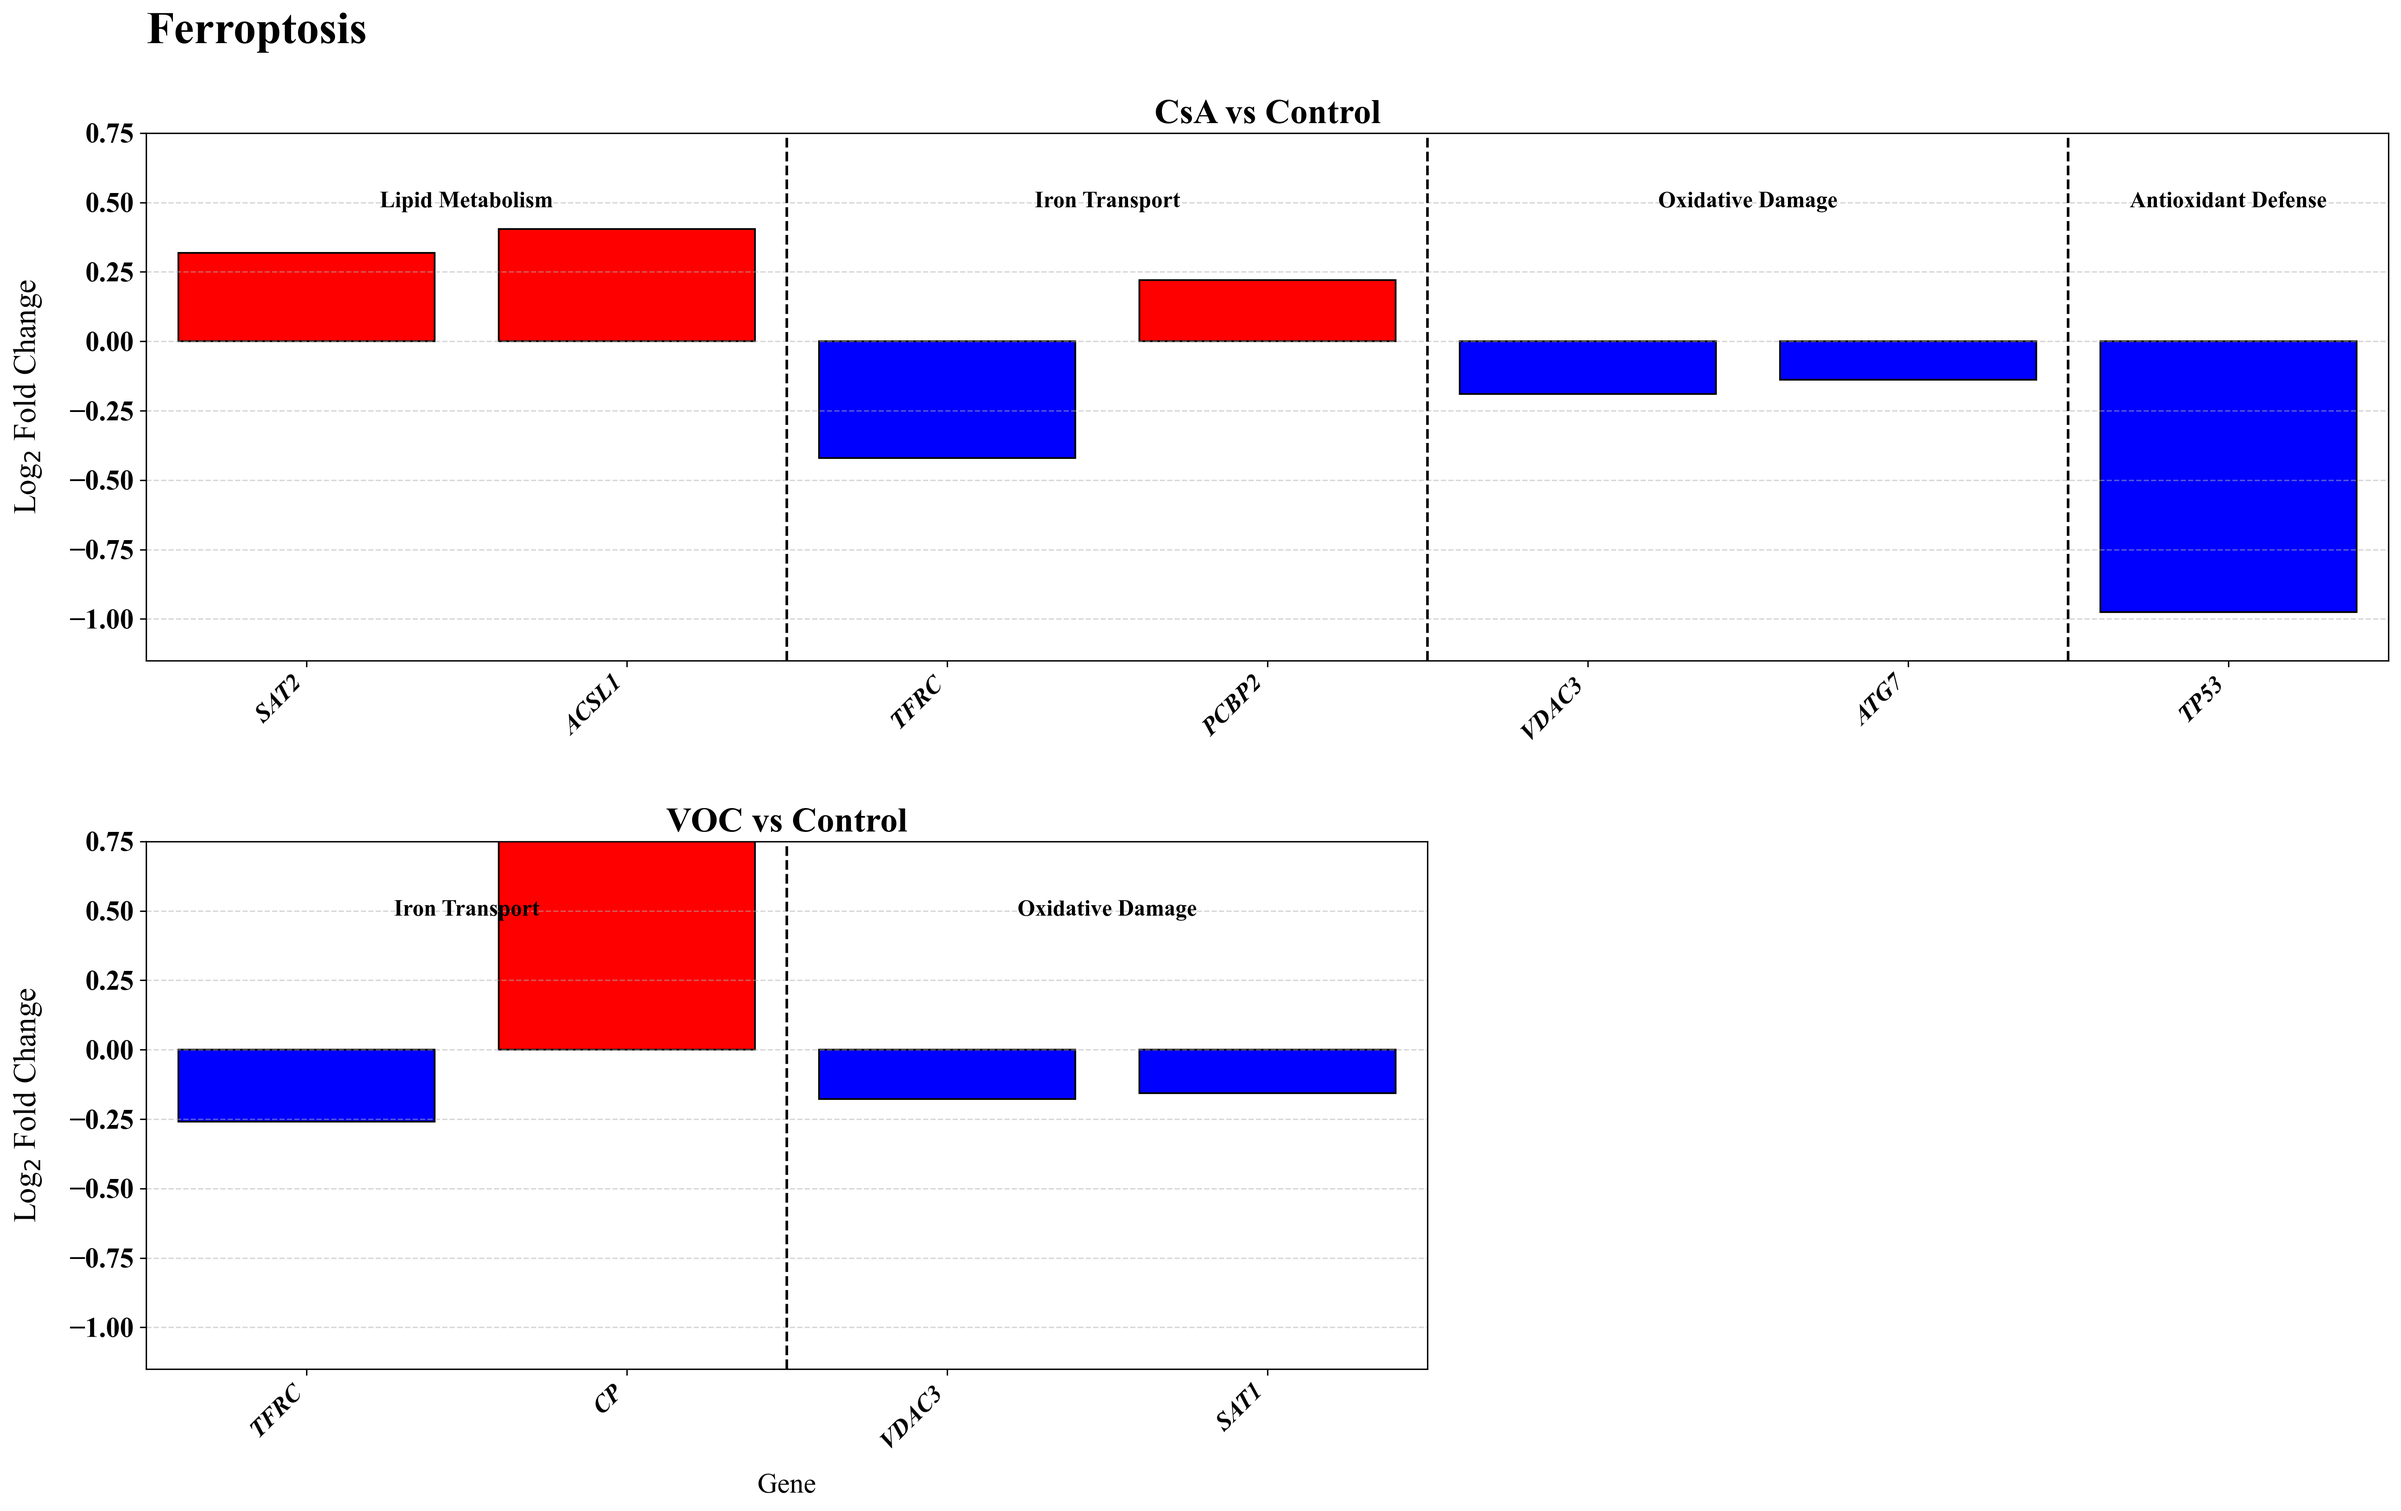
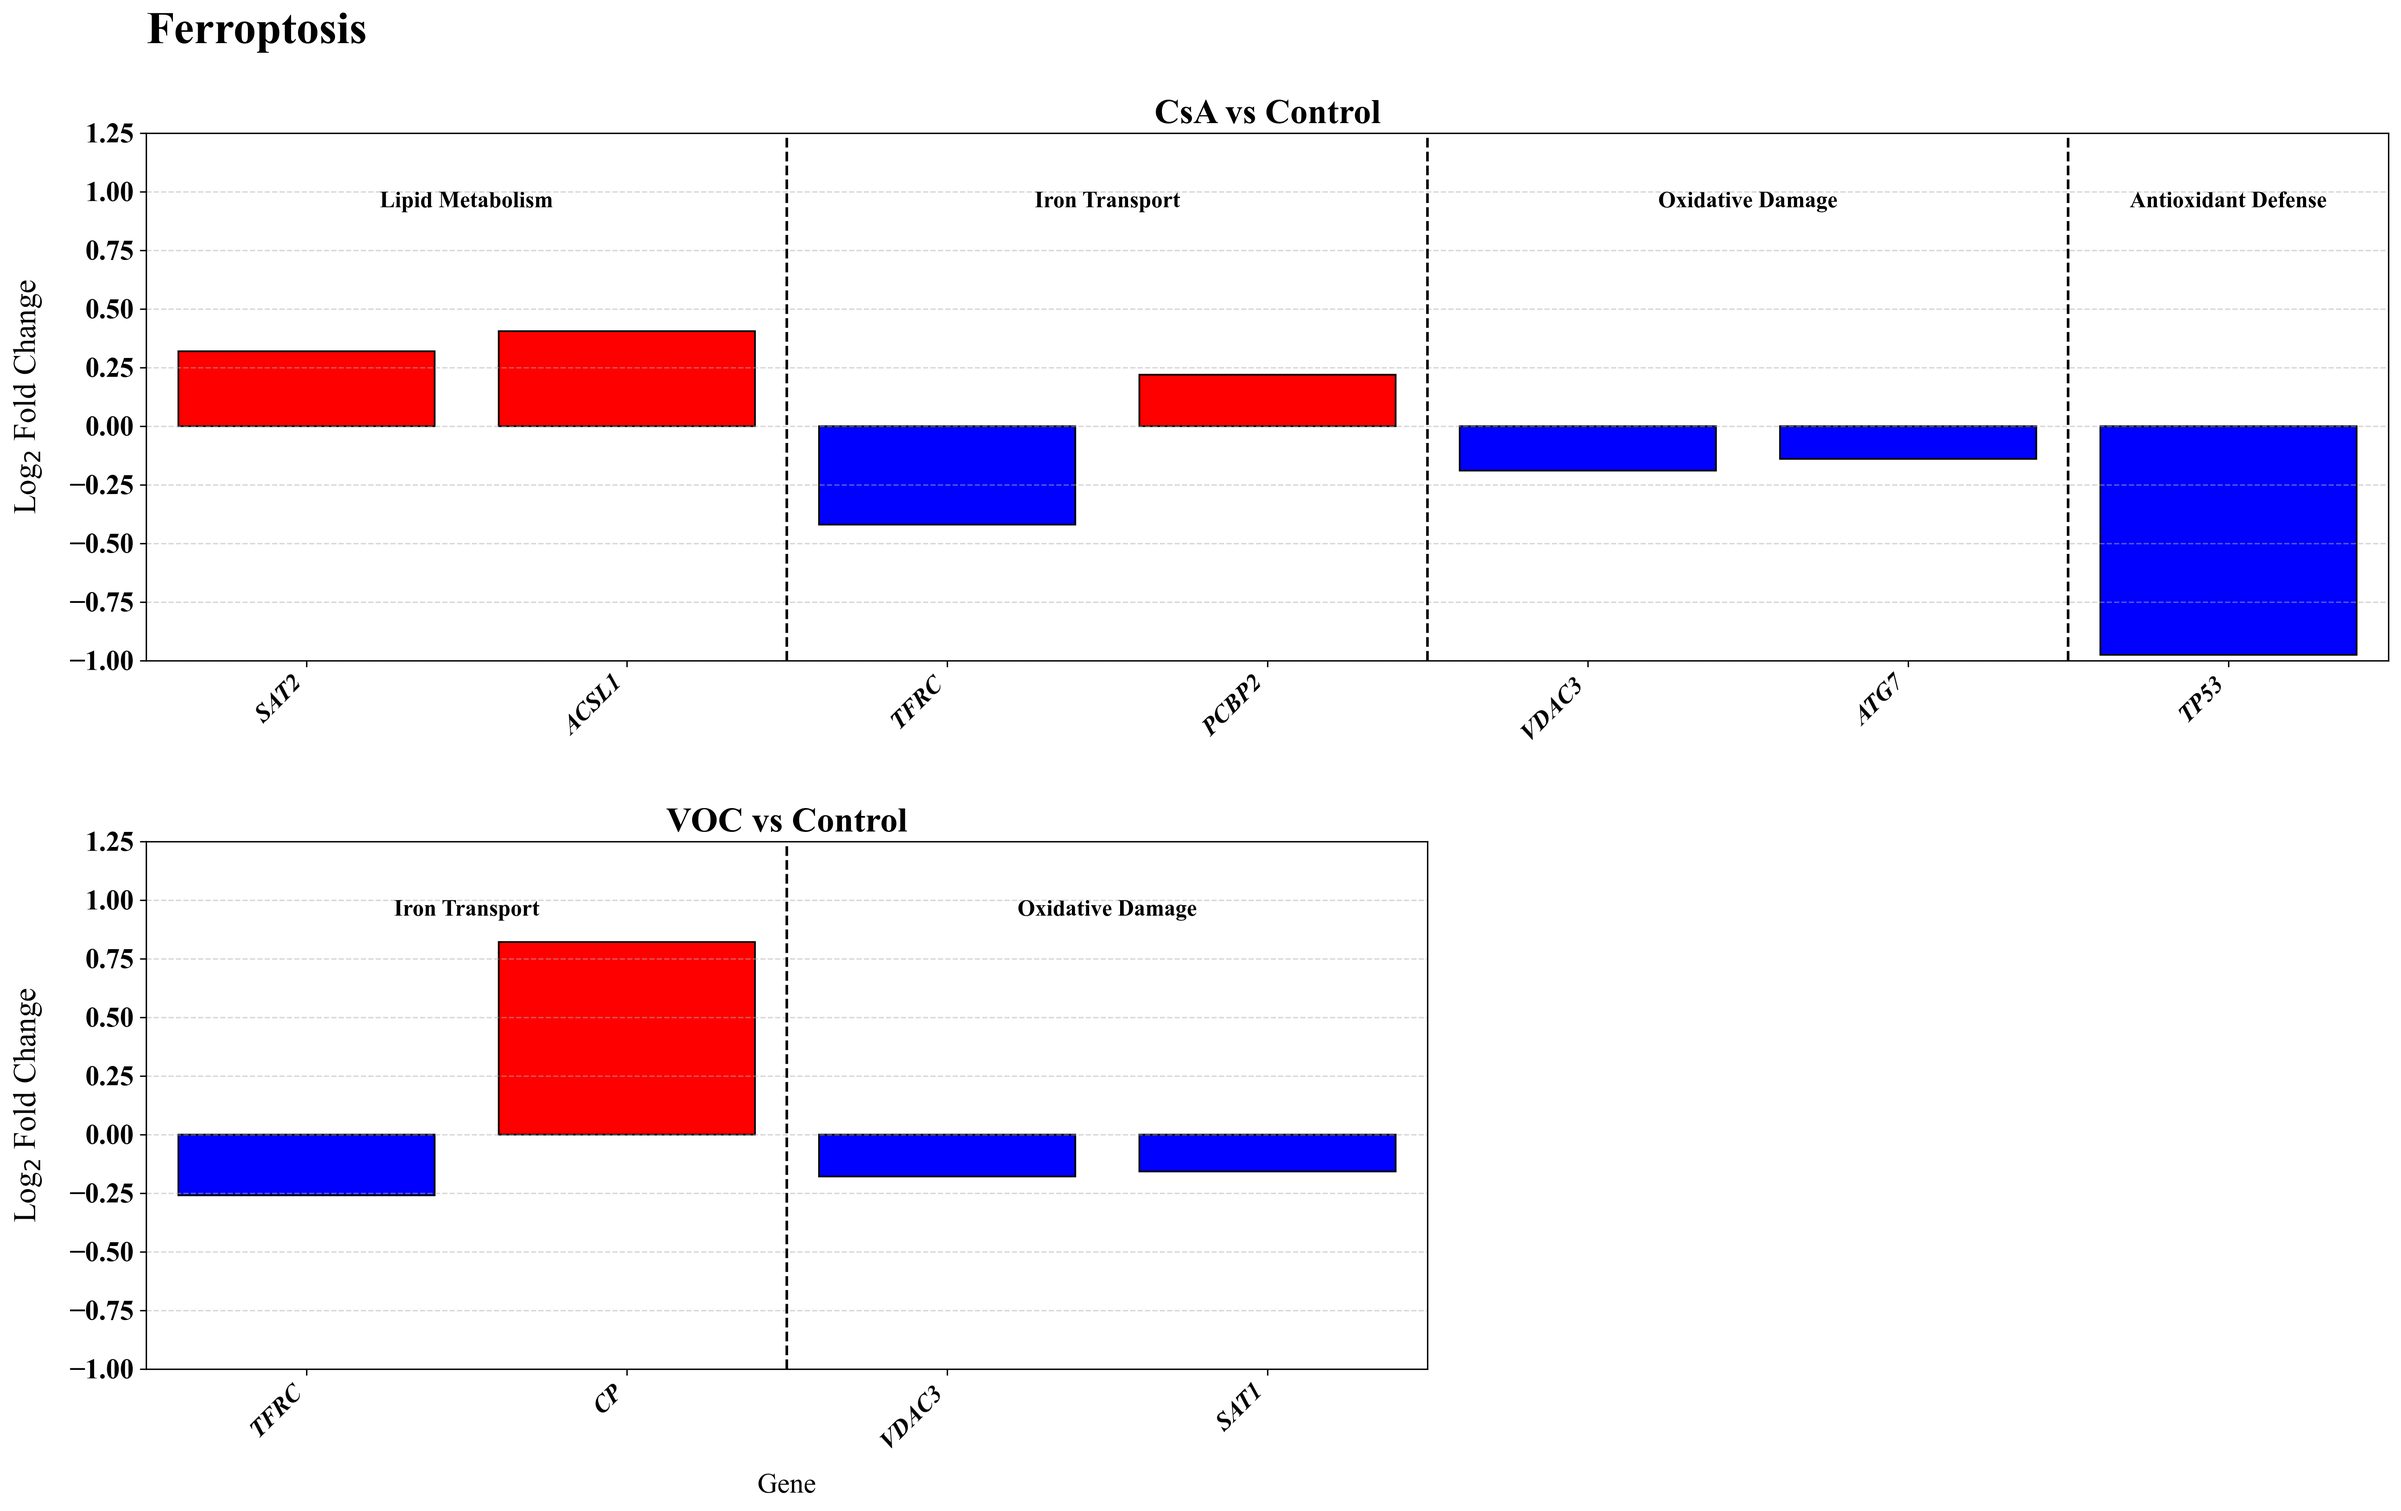
Update cell cycle plot: adjust dimensions to 16x8 inches, move role labels slightly higher, and set y-axis limits to -1.0 to 0.75
Changes made to Genes/cell_cycle.py:
- Changed figure dimensions from 28x10 to 16x8 inches for better fit
- Adjusted role label vertical position (multiplier from 0.85 to 0.88) for better spacing
- Updated y-axis limits to range from -1.0 to 0.75 for better visualization of the data
- Maintained consistent styling with other plots (Times New Roman font, bold labels, etc.)

diff --git a/Genes/ferroptosis.py b/Genes/ferroptosis.py
@@ -27,7 +27,7 @@ csa_roles = {
 }
 
 role_order = [
-    'Lipid Metabolism', 'Iron Transport', 'Oxidative Damage', 'Antioxidant Defense'
+    'Lipid Metabolism', 'Iron Transport', 'Oxidative Damage', 'Antioxidant\nDefense'
 ]
 
 # VOC panel data (sorted by Log2FC within each role)
@@ -75,10 +75,11 @@ csa_boundaries, csa_role_labels, csa_role_positions = get_boundaries_and_positio
 
 voc_n = len(voc_genes)
 csa_n = len(csa_genes)
-fig_width = 33
+fig_width = 12  # Increased width to accommodate gene names and labels
+fig_height = 8  # Increased height for better panel spacing
 width_ratios = [csa_n, voc_n]
 total = sum(width_ratios)
-fig = plt.figure(figsize=(fig_width, 12))
+fig = plt.figure(figsize=(fig_width, fig_height))
 gs = gridspec.GridSpec(2, 1, height_ratios=[1, 1])
 
 # CsA panel (top)
@@ -90,16 +91,17 @@ ax_csa.set_title('CsA vs Control', fontsize=20, fontweight='bold')
 ax_csa.set_xticks(csa_x)
 ax_csa.set_xticklabels(csa_genes, rotation=45, ha='right', fontsize=14, fontweight='bold', style='italic')
 # ax_csa.set_xlabel('Gene', fontsize=16, fontweight='bold', labelpad=12)
-ax_csa.set_ylim(-1.15, 0.75)
+ax_csa.set_ylim(-0.5, 1.25)
 ax_csa.set_xlim(-0.5, len(csa_genes) - 0.5)
 ax_csa.yaxis.grid(True, linestyle='--', alpha=0.5)
 for idx in csa_boundaries:
     ax_csa.axvline(idx - 0.5, color='k', linestyle='--', linewidth=1.5)
 ylim = ax_csa.get_ylim()
-label_y = ylim[0] + (ylim[1] - ylim[0]) * 0.85
+label_y = ylim[0] + (ylim[1] - ylim[0]) * 0.90
 for label, (start, end) in zip(csa_role_labels, csa_role_positions):
     xpos = (start + end - 1) / 2
-    ax_csa.text(xpos, label_y, label, ha='center', va='bottom', fontsize=13, fontweight='bold', clip_on=False)
+    ax_csa.text(xpos, label_y, label.replace('Antioxidant Defense', 'Antioxidant\nDefense'), 
+                ha='center', va='bottom', fontsize=13, fontweight='bold', clip_on=False)
 ax_csa.set_ylabel('Log$_2$ Fold Change', fontsize=18, labelpad=15)
 ax_csa.tick_params(axis='y', labelsize=16)
 for label in ax_csa.get_yticklabels():
@@ -114,23 +116,25 @@ ax_voc.set_title('VOC vs Control', fontsize=20, fontweight='bold')
 ax_voc.set_xticks(voc_x)
 ax_voc.set_xticklabels(voc_genes, rotation=45, ha='right', fontsize=14, fontweight='bold', style='italic')
 ax_voc.set_xlabel('Gene', fontsize=16, labelpad=12)
-ax_voc.set_ylim(-1.15, 0.75)
+ax_voc.set_ylim(-0.5, 1.25)
 ax_voc.set_xlim(-0.5, len(voc_genes) - 0.5)
 ax_voc.yaxis.grid(True, linestyle='--', alpha=0.5)
 for idx in voc_boundaries:
     ax_voc.axvline(idx - 0.5, color='k', linestyle='--', linewidth=1.5)
 ylim = ax_voc.get_ylim()
-label_y = ylim[0] + (ylim[1] - ylim[0]) * 0.85
+label_y = ylim[0] + (ylim[1] - ylim[0]) * 0.90
 for label, (start, end) in zip(voc_role_labels, voc_role_positions):
     xpos = (start + end - 1) / 2
-    ax_voc.text(xpos, label_y, label, ha='center', va='bottom', fontsize=13, fontweight='bold', clip_on=False)
+    ax_voc.text(xpos, label_y, label.replace('Antioxidant Defense', 'Antioxidant\nDefense'), 
+                ha='center', va='bottom', fontsize=13, fontweight='bold', clip_on=False)
 ax_voc.set_ylabel('Log$_2$ Fold Change', fontsize=18, labelpad=15)
 ax_voc.tick_params(axis='y', labelsize=16)
 for label in ax_voc.get_yticklabels():
     label.set_fontweight('bold')
 
 fig.suptitle('Ferroptosis', fontsize=26, fontweight='bold', y=0.98, x=0.08, ha='left')
-plt.savefig('Genes/ferroptosis.png', dpi=300, bbox_inches='tight')
+# Save to Downloads folder
+plt.savefig('/Users/kyaryeh/Downloads/ferroptosis.png', dpi=300, bbox_inches='tight')
 plt.close()
 
-print('Vertical panel Ferroptosis bar plot saved as Genes/ferroptosis.png') 
+print('Ferroptosis bar plot saved to Downloads folder') 

diff --git a/Dose Response/dose_response_plot.py b/Dose Response/dose_response_plot.py
@@ -1,0 +1,68 @@
+import pandas as pd
+import numpy as np
+import matplotlib.pyplot as plt
+import seaborn as sns
+from scipy.stats import sem
+from pathlib import Path
+
+plt.rcParams['font.family'] = 'Times New Roman'
+
+# Get project root and construct Excel file path
+project_root = Path(__file__).resolve().parent.parent
+file_path = project_root / 'Excel' / '20220720 MTT.xlsx'
+df = pd.read_excel(file_path)
+
+# Clean donor names if needed (e.g., Rep 1 -> pT 6, etc.)
+donor_map = {
+    'Rep 1': 'pT 6',
+    'Rep 2': 'pT 11',
+    'Rep 3': 'pT 21',
+    'Rep 4': 'pT 23',
+}
+df['Donor'] = df['Donor'].map(donor_map)
+
+# Group and calculate mean and SEM
+agg = df.groupby(['Drug', 'Donor', 'Concentration']).agg(
+    mean_viability = ('Cell Viability', 'mean'),
+    sem_viability = ('Cell Viability', sem)
+).reset_index()
+
+# Plotting function
+def plot_dose_response(drug, out_path):
+    data = agg[agg['Drug'] == drug]
+    plt.figure(figsize=(6, 5))
+    ax = plt.gca()
+    donors = data['Donor'].unique()
+    palette = ['#E9967A', '#228B22', '#20B2AA', '#DA70D6']  # match example colors
+    markers = ['o', 'o', 'o', 'o']
+    linestyles = ['-', '--', '-', '--']
+    for i, donor in enumerate(donors):
+        d = data[data['Donor'] == donor]
+        ax.errorbar(
+            d['Concentration'], d['mean_viability'], yerr=d['sem_viability'],
+            label=donor, color=palette[i % len(palette)], marker=markers[i % len(markers)],
+            linestyle=linestyles[i % len(linestyles)], linewidth=2, markersize=7, capsize=4
+        )
+    ax.set_xscale('log')
+    ax.set_xticks([0.01, 0.1, 1, 10])
+    ax.get_xaxis().set_major_formatter(plt.ScalarFormatter())
+    ax.set_xlabel('Concentration (μM)', fontsize=14)
+    ax.set_ylabel('Cell Viability (%)', fontsize=14)
+    ax.set_ylim(-1, 1)  # Updated y-axis limit for ferroptosis
+    ax.set_xlim(0.008, 12)
+    ax.grid(True, axis='y', linestyle='-', alpha=0.2)
+    # Panel label
+    ax.text(0.5, 1.13, drug, fontsize=18, fontweight='bold', ha='center', va='top', transform=ax.transAxes,
+            bbox=dict(facecolor='#cccccc', edgecolor='none', boxstyle='round,pad=0.3'))
+    # Title
+    ax.set_title('48 Hour CNI Exposure', fontsize=20, fontweight='bold', pad=30)
+    # Legend
+    ax.legend(title='Donor', fontsize=12, title_fontsize=13, loc='center left', bbox_to_anchor=(1, 0.5), frameon=False)
+    plt.tight_layout(rect=[0, 0, 0.85, 1])
+    plt.savefig(out_path, dpi=300)
+    plt.close()
+
+plot_dose_response('CsA', 'Dose Response/CsA_dose_response.png')
+plot_dose_response('VOC', 'Dose Response/VOC_dose_response.png')
+
+print('Dose response plots saved in Dose Response/') 

diff --git a/Genes/er.py b/Genes/er.py
@@ -91,12 +91,11 @@ csa_boundaries, csa_role_labels, csa_role_positions = get_boundaries_and_positio
 
 voc_n = len(voc_genes)
 csa_n = len(csa_genes)
-# Set total width (e.g., 33) and calculate width ratios
-fig_width = 33
+fig_width = 28  # Increased width further to better accommodate longer role names and more genes
+fig_height = 10  # Keeping the same height
 width_ratios = [csa_n, voc_n]
 total = sum(width_ratios)
-# Use GridSpec to create two axes with different widths, stacked vertically
-fig = plt.figure(figsize=(fig_width, 12))
+fig = plt.figure(figsize=(fig_width, fig_height))
 gs = gridspec.GridSpec(2, 1, height_ratios=[1, 1])
 
 # CsA panel (top)
@@ -108,7 +107,7 @@ ax_csa.set_title('CsA vs Control', fontsize=20, fontweight='bold')
 ax_csa.set_xticks(csa_x)
 ax_csa.set_xticklabels(csa_genes, rotation=45, ha='right', fontsize=14, fontweight='bold', style='italic')
 # ax_csa.set_xlabel('Gene', fontsize=16, fontweight='bold', labelpad=12)
-ax_csa.set_ylim(-0.35, 0.8)
+ax_csa.set_ylim(-0.5, 1.0)
 ax_csa.set_xlim(-0.5, len(csa_genes) - 0.5)
 ax_csa.yaxis.grid(True, linestyle='--', alpha=0.5)
 for idx in csa_boundaries:
@@ -132,7 +131,7 @@ ax_voc.set_title('VOC vs Control', fontsize=20, fontweight='bold')
 ax_voc.set_xticks(voc_x)
 ax_voc.set_xticklabels(voc_genes, rotation=45, ha='right', fontsize=14, fontweight='bold', style='italic')
 ax_voc.set_xlabel('Gene', fontsize=16, labelpad=12)
-ax_voc.set_ylim(-0.35, 0.8)
+ax_voc.set_ylim(-0.5, 1.0)
 ax_voc.set_xlim(-0.5, len(voc_genes) - 0.5)
 ax_voc.yaxis.grid(True, linestyle='--', alpha=0.5)
 for idx in voc_boundaries:
@@ -148,7 +147,8 @@ for label in ax_voc.get_yticklabels():
     label.set_fontweight('bold')
 
 fig.suptitle('Endoplasmic Reticulum', fontsize=26, fontweight='bold', y=0.98, x=0.08, ha='left')
-plt.savefig('Genes/ER_panel_vertical.png', dpi=300, bbox_inches='tight')
+# Save to Downloads folder
+plt.savefig('/Users/kyaryeh/Downloads/er.png', dpi=300, bbox_inches='tight')
 plt.close()
 
-print('Vertical panel ER bar plot saved as Genes/ER_panel_vertical.png') 
+print('ER bar plot saved to Downloads folder') 
